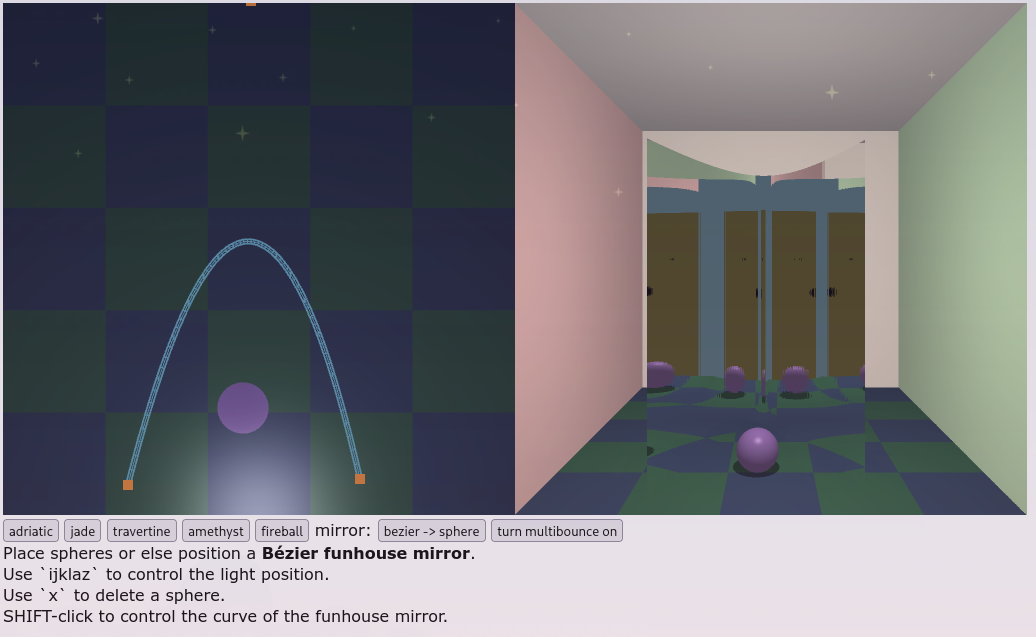
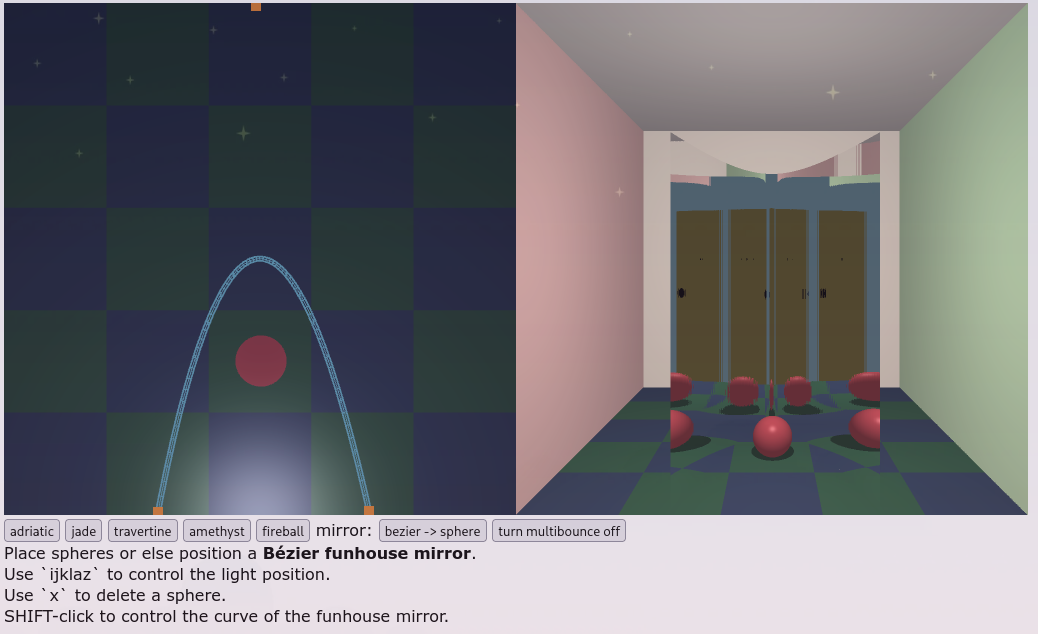
Add no multibounce photo

Changed region(s): [[0.0, 0.3596, 1.0, 0.989], [0.6178, 0.2098, 0.8649, 0.7492], [0.3089, 0.5394, 0.3398, 0.6593]]

diff --git a/bezier-funhouse.html b/bezier-funhouse.html
@@ -1548,10 +1548,10 @@ void main() {
           const status = document.getElementById("multibounce").innerText;
           if (status == "turn multibounce on") {
               document.getElementById("multibounce").innerText = "turn multibounce off";
-              multiBounce(false);
+              multiBounce(true);
           } else {
               document.getElementById("multibounce").innerText = "turn multibounce on";
-              multiBounce(true);
+              multiBounce(false);
           }
       }
     </script>
@@ -1567,7 +1567,7 @@ void main() {
     <button onClick="chooseColor('fireball')">fireball</button>
     mirror:
     <button value="sphere -> bezier" id="mirror-select" onclick="chooseMirror();">sphere -> bezier</button>
-    <button value="turn multibounce on" id="multibounce" onclick="toggleMultiBounce()">multibounce on</button>
+    <button value="turn multibounce on" id="multibounce" onclick="toggleMultiBounce()">turn multibounce on</button>
     <br>
     Place spheres or else position a <b>Bézier funhouse mirror</b>.<br>
     Use `ijklaz` to control the light position.<br>

diff --git a/README.md b/README.md
@@ -37,6 +37,10 @@ There's an optional toggle for multibounce:
 
 ![Multibounce](pics/multibounce.png)
 
+Here's no multibounce, for comparison:
+
+![No multibounce](pics/no-multibounce.png)
+
 This seems to work, mostly. The major issue is likely not with this code.
 Instead, the discontinuities from slerping (whether because of a numerical error
 in my code or insufficient subdivision depth) become significantly more
